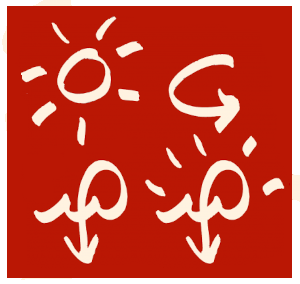
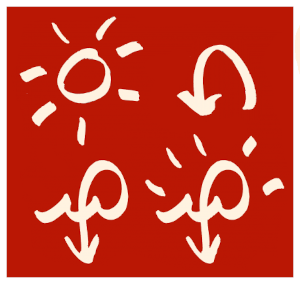
fix cover image - u-turn

diff --git a/_posts/2022-12-26-p1chapter1.md b/_posts/2022-12-26-p1chapter1.md
@@ -64,3 +64,42 @@ I believe this is one of the most beautiful scriptures. Lehi prayed with all his
 What motivates such an outgoing desire of the heart? I believe it is true love. It gave Christ the strength to sustain an incomprehensible agony in Gethsemane. It gives a mother the courage to keep giving of herself, even when exhausted by the heat of the day.
 
 I also pray for my people, especially for my own family, continually asking God to forgive them and myself, and to find a way to bring the precious gift of eternal life to their souls, if they dare to receive such a blessing. This is where all my hopes go, and it keeps me going. I continue to serve and live for that. I hope and pray and live to receive eternal life one day, not only for myself, but for my posterity, my extended family, all my ancestors, and the rest of the world, as many as will desire it. I deeply desire it, and it pushes me to keep writing and to continue serving in the priesthood of God.
+
+## 1 Nephi 1:6
+
+> And it came to pass as he prayed unto the Lord, there came a pillar of fire and dwelt upon a rock before him; and he saw and heard much; and because of the things which he saw and heard he did quake and tremble exceedingly. 
+{: style="text-align: left"}
+
+I had a similar experience with the fire of God in 1994, as I sat on a wood bench on a hill in the town of Matane, Canada. As I watched the sunset over the sea and contemplated the colors of the sky, I remembered another sunset I had seen earlier in 1992 on an island in the middle of the St. Lawrence Golf. I felt then deeply sad as the sun disappeared below the horizon, as if I was losing all hope of happiness. I had just lost all hope of love with a dear girlfriend and believed I had lost everything with the setting of the sun that evening. I sobbed with a broken heart while friends watched over me in silence.
+
+However, as I saw the beautiful colored sky after the sun had disappeared, it was like a message to me that the sun and all the happiness it represented would still be there the next day. Even though it was out of sight, the sun was telling me that it was still there. This gave me hope and I trusted that there would be hapiness for me in the future. 
+
+The memory of that emotional moment was what sparked everything. Prior to the vision I am about to tell, I had spent the night with some of those same friends, including the girlfriend I cherished so much. We stayed up all night in a friend's cabin, listening to music and having conversations. During the night, I was filled with a wonderful feeling of peace and love. My spirit felt so good and joyful. The music I heard that night still echoes within me with rays of happiness. It felt as if I understood everything about life and people. It was one of those rare moments in my life when my heart felt eternal.
+
+We watched the glorious sun rise early that morning with the golden light over the fields. We had crepes together for breakfast, and then we went to bed. I kissed my dear friend on the forehead before she fell asleep, and then I went to bed thinking about the simplicity of that moment. I was happy to be her friend and loved her in that way, as a dear friend. I lay in bed, savoring and lingering on the joy I had experienced. Needless to say, I didn't get any sleep that morning.
+
+All of these memories came back to me as I watched the sun disappear into the St. Lawrence River and the sky turn red and then purple. I was alone, thinking about all of these things when I was caught up in a vision.
+
+I remembered many sunrises and sunsets. It seemed as if all the days between the sunset on the island and the one in Matane had passed by in an instant. That feeling of eternity I had experienced earlier returned to me again, but even more intensely. It was a powerful impression. I felt as if I was eternal again and was caught up in an even higher vision. Time no longer existed and neither did space. I was standing in spirit high above the planets and above time. Perhaps this is what the prophets called the heavens. I saw two men standing there afar off, and while I was looking at them from a distance, a personage appeared in front of me smiling radiantly. He seemed like a man like myself, but with infinite power and great holiness. As he smiled, I could perceive the purity of his thoughts and desires. For a very short moment, due to my pride, I looked down on him as I would a child, but the power of his majesty and the strength of his countenance prevented me from considering him as a child. I saw the glory of a god mixed with the meekness of a pure child. These two concepts were hard to reconcile in my mind. I was afraid to offend the being I had in front of me. I also knew he could see within my heart. This is when I started to feel ashamed of myself. Then I saw the fire of his glory like a flaming sword turning around him. I saw the strength and heat of this invisible fire coming from the holiness of his heart. I knew that I couldn't possibly stand in this fire and would be destroyed if I were to stand in his presence. So I was forced to bow and leave his presence.
+
+The vision vanished. I was still sitting on the wood bench I mentioned earlier. Some kids came up the hill where I was and said something like, "What on earth did this man do to have such a troubled look on his face?" It surprised me to hear such a comment because I considered the vision I just had as a glorious moment.
+
+I took a little time to come back to my senses and went back to my mother's place. I was all happy... until I arrived there. As soon as I passed through the door, while my mother was greeting me, I felt the same shame that I had felt in the celestial fire, and I began to shake excessively inside my body and soul. I told my mom I wasn't feeling too good and thought I might have the flu or something. My mom wasn't feeling too good either. It was Easter and her sister was supposed to come and take us to her place, but we canceled the visit.
+
+I continued to feel that great malaise for a few days. I didn't understand what it was. I tried to read the Bible to feel better, as I would do at home in Montreal when I felt bad, but the words I read in the Bible reminded me of my sins, and I felt even worse than before.
+
+I had more remorse of conscience than ever before in my life. I had lost all the joy I had previously experienced and was frustrated and angry about it. I wanted to repair the bad things I had done, but they were things I couldn't repair, especially one person I had deeply offended. She was long gone and there was no way to find her. I wrote a letter hoping to find a way to send it to her someday, but I never did find her mailing address.
+
+During the week that followed, I kept seeing a huge eye in the gray sky looking at me all the time whenever I was outside. I had lost all joy and felt ashamed. I started praying that I could just hear some beautiful music that could feed my soul again, like the music I heard on that night with my friends.
+
+It was only a few days later, when I remembered the missionaries who came to visit me at my house and the feelings of holy love we shared together, that I began to feel better and find hope again. But that's another story that I will tell later in this book.
+
+I often thought about this vision and the being I saw in there. Years later, I prayed to ask the Lord whom I saw in that vision, and the Spirit whispered in my soul that he was a cherubim. Then I understood that the fire I felt in his glory was like a flaming sword guarding me from coming too close to heaven because of my impurities. I really felt that the natural part of me couldn't possibly stay there.
+
+
+
+
+
+
+
+
